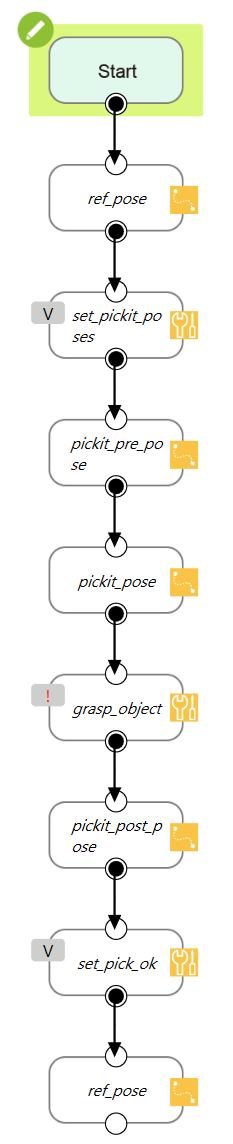
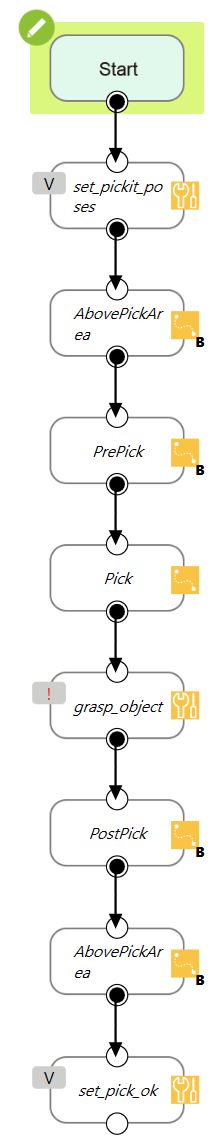
Update Omron TM docs

diff --git a/docs/robot-integrations/techman/pick_and_place_program.rst b/docs/robot-integrations/techman/pick_and_place_program.rst
@@ -33,10 +33,9 @@ Objects can be stacked randomly, or in a pattern, touching or not.
 Inputs
 ~~~~~~
 
-The program requires the user to specify the following inputs:
-
 Component parameters
 ^^^^^^^^^^^^^^^^^^^^
+The following two inputs are configurable from components in the :ref:`main program <techman-main-program>` logic:
 
 -  **Pickit IP address**: See :ref:`tm-init` component.
 -  **Pickit configuration**: Setup and product IDs, see :ref:`tm-configure` component.
@@ -44,7 +43,7 @@ Component parameters
 Points
 ^^^^^^
 
-There are six points relevant to the application, of which three are fixed and need to be taught by the user, and three are automatically computed from Pickit’s results (prefixed with ``pickit_``).
+There are six points relevant to the application, of which three are fixed and need to be taught by the user, and three are automatically computed from Pickit’s results.
 They are listed in the **Point Manager**.
 
     .. image:: /assets/images/robot-integrations/techman/tm-pap-point-manager.png
@@ -56,37 +55,49 @@ Fixed points
 
 These points need to be taught by the user:
 
--  ``detect_pose`` from where to perform object detection.
--  ``dropoff_pose`` where to place objects.
--  ``ref_pose`` a waypoint from which the above two can be reached without collision.
-   In simple scenarios, it can be the same as ``detect_pose``.
+-  ``Detect`` from where to perform object detection.
+-  ``Dropoff`` where to place objects.
+-  ``AbovePickArea`` a point roughly above the pick area from which the above two can be reached without collision.
+   In simple scenarios, it can be the same as ``Detect``.
+
+   It is recommended that they are taught using the tool that will be used for the pick and place operation.
+   The active tool can be changed in the top-right bar (right-most drop-down below).
+
+  .. image:: /assets/images/robot-integrations/techman/tm-pap-tool-selector.png
+       :scale: 50%
+       :align: center
 
 .. _techman-auto-points:
 
 Automatically computed points
 '''''''''''''''''''''''''''''
 
-These points are computed from Pickit’s results, and need **tool shifting** to be applied to them:
+These points are computed from Pickit’s results:
 
--  ``pickit_pose`` The actual picking pose.
--  ``pickit_pre_pose`` Used for the linear approach motion before the pick takes place.
-   It consists of ``pickit_pose`` offset along its z-axis,. i.e. it tilts with the object.
--  ``pickit_post_pose`` Used for the linear retreat motion after the pick takes place. It consists of ``pickit_pose`` offset along the robot base z-axis, which typically means straight up.
+-  ``Pick`` The actual picking pose.
+-  ``PrePick`` Used for the linear approach motion before the pick takes place.
+   It consists of the ``Pick`` point offset along its z-axis, i.e. it tilts with the object.
+-  ``PostPick`` Used for the linear retreat motion after the pick takes place. It consists of the ``Pick`` point offset along the robot base z-axis, which typically means straight up.
 
-Tool shifting compensates for the offset of the TCP to be used.
-In the :ref:`pick sequence <techman-pick-sequence>` subflow, you must edit each of these points, and select **Tool shift** in the advanced options of the point editor.
+.. note::
+  These points are initially specified with respect to tool ``T0`` (no tool).
 
-    .. image:: /assets/images/robot-integrations/techman/tm-pap-tool-shift.png
-       :scale: 32%
+  .. image:: /assets/images/robot-integrations/techman/tm-pap-before-tool-change.png
+       :scale: 50%
        :align: center
 
-Then, apply tool shifting with the following options:
+  When using a tool other than ``T0``, you should re-teach these points with the tool of interest.
+  For instance, if the pick is to be performed with tool ``T1``, you should:
 
--  The **TCP** to be used for reaching this point.
--  The **keep path** option (as opposed to keep pose).
+  - Select ``T1`` as active tool.
 
-    .. image:: /assets/images/robot-integrations/techman/tm-pap-tool-shift-keep-path.png
-       :scale: 40%
+  - Open the **Point Manager** and re-teach ``Pick``, ``PrePick``, and ``PostPick`` to a dummy robot pose.
+    Note that its value is irrelevant, as it will be overwritten by Pickit, the important thing is to correctly set the tool used for reaching the point.
+
+  - Close and re-open the **Point Manager**, confirm that points are now shown relative to ``T1``.
+
+  .. image:: /assets/images/robot-integrations/techman/tm-pap-after-tool-change.png
+       :scale: 50%
        :align: center
 
 Gripper command
@@ -101,10 +112,11 @@ You should either set the correct variable (e.g. toggle a digital output) or rep
 
 These variables have reasonable default values, but can be overridden if desired:
 
--  **var_picks** How many objects to pick before successfully terminating the program.
+-  **var_target_picks** How many objects to pick before successfully terminating the program.
    The default value of zero indicates “pick all”.
 -  **var_max_detection_retries** How many times to retry object detection when no objects are found before bailing out.
    Defaults to five.
+- **var_pre_pick_offset** and **var_post_pick_offset** Offsets applied to the ``Pick`` point to compute ``PrePick`` and ``PostPick``, respectively.
 
 Program breakdown
 -----------------
@@ -130,14 +142,7 @@ This sequence computes ``pickit_pre_pose`` and ``pickit_post_pose`` relative to 
 It also enables the gripper.
 
 .. image:: /assets/images/robot-integrations/techman/tm-pap-0.png
-   :scale: 60 %
-   :align: center
-
-Remember to :ref:`apply tool shifting <techman-auto-points>` with **keep path** to ``pickit_pose``, ``pickit_pre_pose`` and ``pickit_post_pose``.
-The below image shows how a tool-shifted Point is displayed (see the TCP identifier to the left).
-
-.. image:: /assets/images/robot-integrations/techman/tm-pap-1.png
-   :scale: 40 %
+   :scale: 70 %
    :align: center
 
 Some grippers allow to check pick success (e.g. vacuum check, finger position or force).
@@ -151,7 +156,7 @@ Place sequence
 Uses fixed points and the gripper command to place the picked object.
 
 .. image:: /assets/images/robot-integrations/techman/tm-pap-2.png
-   :scale: 60 %
+   :scale: 50 %
    :align: center
 
 Object detection
@@ -161,7 +166,7 @@ This is a trivial sequence that consists of a single point.
 It rarely needs to be modified.
 
 .. image:: /assets/images/robot-integrations/techman/tm-pap-3.png
-   :scale: 40 %
+   :scale: 50 %
    :align: center
 
 .. _techman-main-program:

diff --git a/docs/robot-integrations/techman/calibration_program.rst b/docs/robot-integrations/techman/calibration_program.rst
@@ -26,25 +26,25 @@ Note that since robot mode doesn't need to be enabled to perform calibration, bo
   .. note::
     If your Pickit system is not using the default 169.254.5.180 IP address, you should set it in the configuration of the :ref:`init <tm-init>` component.
 
-  .. image:: /assets/images/robot-integrations/techman/tm-init-3.png
-       :scale: 50%
+  .. image:: /assets/images/robot-integrations/techman/tm-calibration-init.png
+       :scale: 40%
        :align: center
 
 Then, the following sequence is repreated five times:
 
-#. Move the robot to a waypoint where the calibration plate is visible.
+  .. image:: /assets/images/robot-integrations/techman/tm-calibration-iteration.png
+       :scale: 40%
+       :align: center
 
-    When teaching the waypoints, it is recommended to have the :guilabel:`Calibration` page open in the Pickit web interface, where the user can verify whether the calibration plate is visible.
+#. Move the robot to a point where the calibration plate is visible.
+
+    When teaching the points, it is recommended to have the :guilabel:`Calibration` page open in the Pickit web interface, where the user can verify whether the calibration plate is visible.
 
     .. note::
-      This program is a template, and the waypoints need to be retaught by the user since they depend on the physical environment and location of the calibration plate.
-      Refer to the :ref:`multi-poses calibration <multi-poses-calibration>` article for guidelines on how the five waypoints should be taught.
+      This program is a template, and the points need to be retaught by the user since they depend on the physical environment and location of the calibration plate.
+      Refer to the :ref:`multi-poses calibration <multi-poses-calibration>` article for guidelines on how the five points should be taught.
 
 #. Send a request to find the calibration plate by means of the :ref:`tm-find-calibration-plate` component.
-
-    .. image:: /assets/images/robot-integrations/techman/tm-findcalibrationplate-1.png
-       :scale: 50%
-       :align: center
 
 It is possible to follow the progress of the calibration procedure from the :guilabel:`Calibration` page.
 
@@ -52,3 +52,9 @@ Single pose calibration
 -----------------------
 
 For :ref:`single pose calibration <single-pose-calibration>`, the program is similar, but only performs a single calibration request.
+
+Running the program
+-------------------
+
+Before running the calibration program, make sure that the Pickit web interface is in the :guilabel:`Calibration` page, which provides feedback on calbiration plate visibility and progress of the calibration process (:ref:`more <multi-poses-calibration-calibrating>`).
+

diff --git a/docs/robot-integrations/techman/getting_started.rst b/docs/robot-integrations/techman/getting_started.rst
@@ -23,6 +23,10 @@ Robot
 ~~~~~
 
 The **TMflow** versions supported by the Pickit components are listed on our :ref:`downloads page <downloads_omron_tm>`.
+The TMFlow version can be checked by clicking on the information button on the top bar (highlighted in red below).
+    .. image:: /assets/images/robot-integrations/techman/tm-check-version.png
+       :scale: 50%
+       :align: center
 
 Installing the Pickit TM integration files
 ------------------------------------------
@@ -30,12 +34,17 @@ Installing the Pickit TM integration files
 To install the Pickit TM integration files, follow these steps:
 
 #. :ref:`Download the Pickit TM integration files <downloads_omron_tm>`.
-#. Unzip the archive and copy its contents to a USB drive.
+#. Unzip the archive and copy the contents of the ``tm_pickit`` directory to a USB drive under ``TM_Export\<your-robot-serial>``.
 
    .. note::
-     TMflow requires USB drives to adhere to a specific directory structure for importing contents into the robot. The files contained in the above archive respect this layout and should not be altered.
+     TMflow requires USB drives to adhere to a specific directory structure for importing contents into the robot. The above step adheres to this layout.
 
 #. From a Windows PC, open the TMflow application and **Get control** of your TM robot.
+
+    .. image:: /assets/images/robot-integrations/techman/tm-get-control.png
+          :scale: 60%
+          :align: center
+
 #. Click the `hamburger icon <https://en.wikipedia.org/wiki/Hamburger_button>`__ on the top-left corner of the user interface to display a panel on the left side of the screen.
 
 #. Click on **System** on the left panel, to display the **System setting screen**.

diff --git a/docs/downloads.rst b/docs/downloads.rst
@@ -38,12 +38,12 @@ The product number for this module is **91B300-020** and can be purchased throug
 
 .. _downloads_omron_tm:
 
-Omron TM (beta)
----------------
+Omron TM
+--------
 
 The Pickit TMflow components are available for TMflow version 1.72 and higher.
 
-- `Download the Pickit TMflow components 1.0 beta <https://drive.google.com/uc?export=download&id=1hugTdzZF--Vfz0IvtCG-8VEddrVLPnm1>`__
+- `Download the Pickit TMflow components 1.0 <https://drive.google.com/uc?export=download&id=1bODON186ZfTK01LcBMbHXVjKiOR6nsyJ>`__
 
 ROS
 ---

diff --git a/docs/index.rst b/docs/index.rst
@@ -60,7 +60,7 @@ sending an email to `support@pickit3d.com <mailto:mailto:support@pickit3d.com>`_
   ABB <robot-integrations/abb/index>
   Fanuc <robot-integrations/fanuc/index>
   KUKA <robot-integrations/kuka/index>
-  Omron TM (beta) <robot-integrations/techman/index>
+  Omron TM <robot-integrations/techman/index>
   Stäubli <robot-integrations/staubli/index>
   Universal Robots <robot-integrations/universal-robots/index>
   Yaskawa <robot-integrations/yaskawa/index>

diff --git a/docs/documentation/calibration/multi-poses-calibration.rst b/docs/documentation/calibration/multi-poses-calibration.rst
@@ -70,6 +70,9 @@ image, but tilted in different directions.
 
 .. image:: /assets/images/Documentation/calibration_multi_pose_camera_on_robot.png
 
+
+.. _multi-poses-calibration-calibrating:
+
 Calibrating
 -----------
 

diff --git a/docs/robot-integrations/techman/index.rst b/docs/robot-integrations/techman/index.rst
@@ -1,7 +1,7 @@
 .. _techman-index:
 
-Omron TM (beta)
-===============
+Omron TM
+========
 
 .. toctree::
   :glob:
